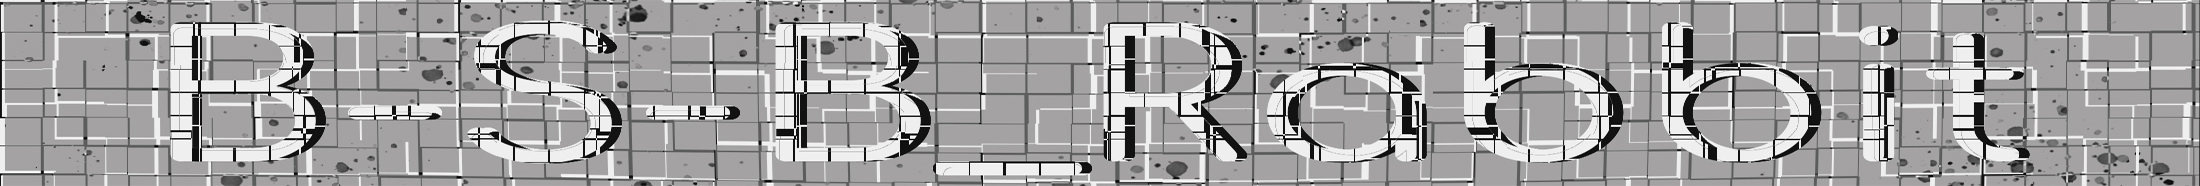
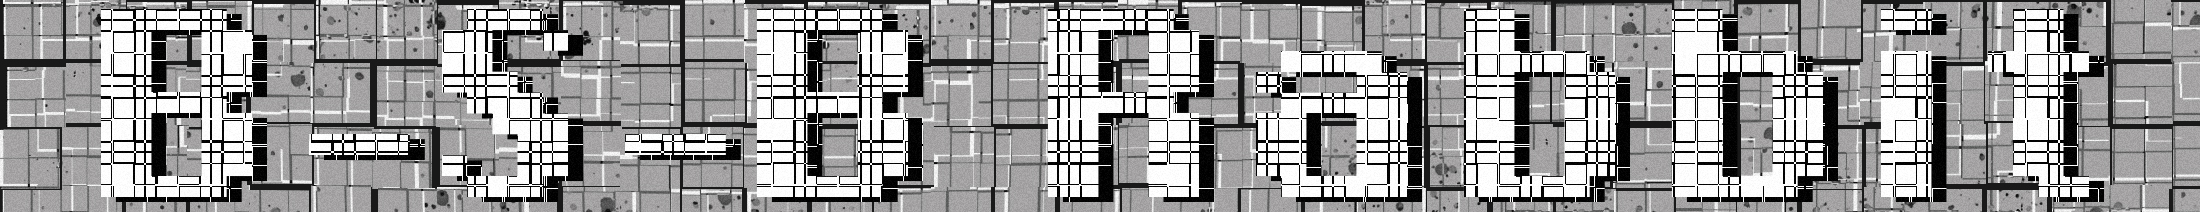
Multi-version 0.4.9.1 - save commit

diff --git a/using.html b/using.html
@@ -1,0 +1,68 @@
+<!DOCTYPE html>
+<html lang="en">
+<head>
+    <meta charset="UTF-8">
+    <meta name="viewport" content="width=device-width, initial-scale=1">
+    <title>Калькулятор</title>
+    <link rel="stylesheet" href="style.css">
+</head>
+<body>
+    <header><img class="hat" src="images/hat2.jpg" alt="Калькулятор серый"></header>
+    <div class="wide-screen">
+    <nav class="sidebar">
+        <div>
+            <ul>
+                <li><a id="calc-ref" href="index.html">Калькулятор</a></li>
+                <li><a id="ab-ref" href="using.html">Использование</a></li>
+            </ul>
+        </div>
+    </nav>
+    <main>
+    <section class="info">
+        <div>
+            <h1>Привет! Ниже ты найдешь всю необходимую информацию о том, как использовать этот калькулятор</h1>
+        </div>
+        <div>
+            <h2>Арифметические операторы</h2>
+            <ul>
+                <li><b>+</b>: Сложение. Пример: 2 + 3 = 5</li>
+                <li><b>-</b>: Вычитание. Пример: 7 - 4 = 3</li>
+                <li><b>*</b>: Умножение. Пример: 5 * 6 = 30</li>
+                <li><b>/</b>: Деление. Пример: 10 / 2 = 5</li>
+                <li><b>%</b>: Взятие остатка от деления. Пример: 8 % 3 = 2</li>
+                <li><b>x^y</b>: Возведение числа x в степень y. Пример: 2^3 = 8</li>
+                <li><b>x^3</b>: Возведение числа x в куб. Пример: 2^3 = 8</li>
+                <li><b>x^2</b>: Возведение числа x в квадрат. Пример: 4^2 = 16</li>
+                <li><b>10^x</b>: Возведение числа 10 в степень x. Пример: 10^2 = 100</li>
+                <li><b>x!</b>: Факториал числа x (произведение всех положительных целых чисел от 1 до x). Пример: 5! = 120</li>
+                <li><b>sqrt</b>: Квадратный корень числа. Пример: sqrt(25) = 5</li>
+            </ul>
+        
+            <h2>Логарифмические операторы</h2>
+            <ul>
+                <li><b>lg</b>: Десятичный логарифм. Пример: lg(100) = 2</li>
+                <li><b>ln</b>: Натуральный логарифм (логарифм по основанию e). Пример: ln(e) = 1</li>
+            </ul>
+        
+            <h2>Другие операторы</h2>
+            <ul>
+                <li><b>(</b>: Открывающая скобка. Используется для группировки выражений. Пример: (2 + 3) * 4 = 20</li>
+                <li><b>)</b>: Закрывающая скобка.</li>
+                <li><b>=</b>: Оператор равенства. Пример: 5 + 5 = 10</li>
+                <li><b>C</b>: Очистка всех данных калькулятора.</li>
+                <li><b>backspace</b>: Удаление последнего символа ввода.</li>
+            </ul>
+        
+            <p>Помимо перечисленных операторов, вы также можете использовать константу <b>pi</b>, представляющую число π (пи).</p>
+        </div>
+        <div>
+            <h1>Последние новости</h1>
+            <p>08.10.23 - добавлена новая страница с информацией об использовании калькулятора</p>
+        </div>
+    </section>
+    </main>
+</div>
+    <footer>@created by B-S-B-Rabbit</footer>
+<script src="scripts/script.js"></script>
+</body>
+</html>

diff --git a/index.html b/index.html
@@ -13,21 +13,9 @@
         <div>
             <ul>
                 <li><a id="calc-ref" href="index.html">Калькулятор</a></li>
-                <li><a id="ab-ref" href="about.html">Использование</a></li>
+                <li><a id="ab-ref" href="using.html">Использование</a></li>
             </ul>
         </div>
-        <script>
-             document.addEventListener('DOMContentLoaded', () => {
-               const currentURL = window.location.href;
-               if (currentURL.indexOf('https://b-s-b-rabbit.github.io/') !== -1) {
-                 document.getElementById('calc-ref').classList.add('active');
-               } else if (
-    currentURL.indexOf('https://b-s-b-rabbit.github.io/about.html') !== -1
-               ) {
-    document.getElementById('ab-ref').classList.add('active');
-               }
-             });
-        </script>
     </nav>
     <main id="calc">
         <section class="calculator">
